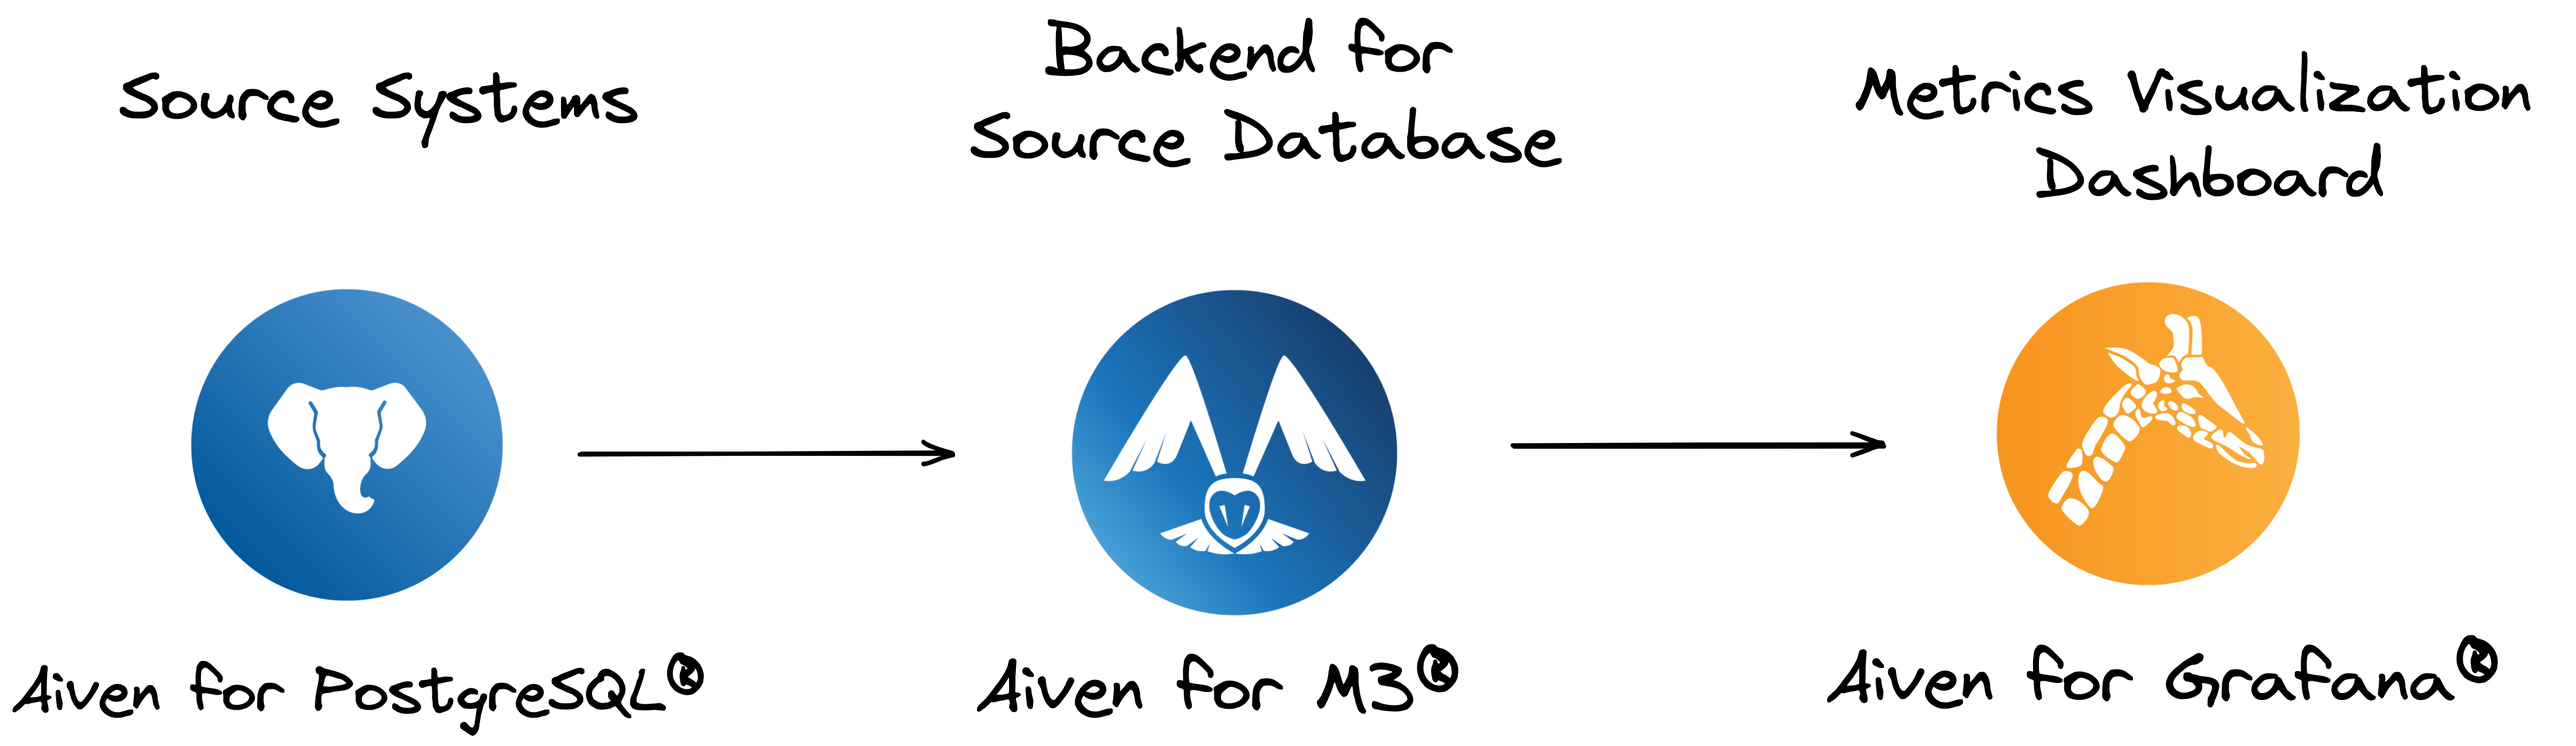
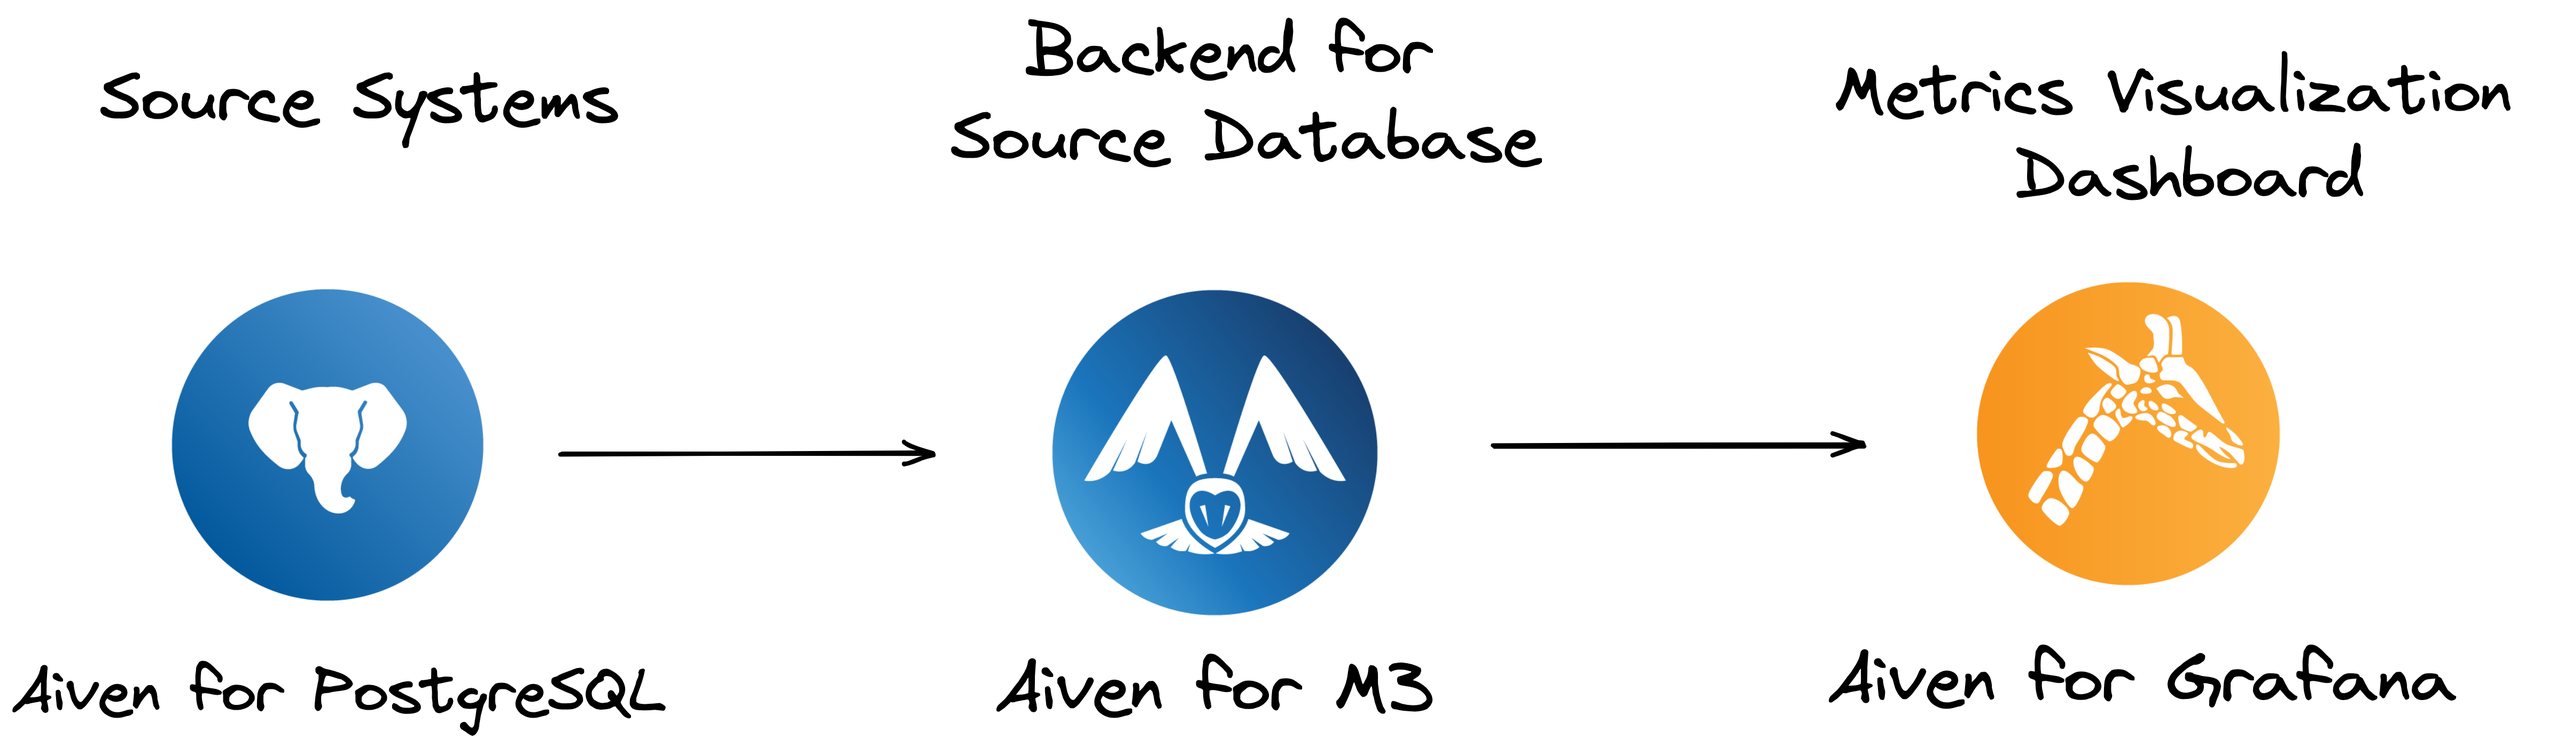
Changes based on Kevin's feedback.

diff --git a/content/5_ModuleFive/52_CreateProdDataInfra.md b/content/5_ModuleFive/52_CreateProdDataInfra.md
@@ -31,27 +31,13 @@ plan_name       = "business-4"
 Let's add four resources to the existing blueprint from the development environment: an Apache Kafka service and three Apache Kafka topics.
 
 ```
-# Kafka service
-
 resource "aiven_kafka" "kafka-service" {
   project                 = var.project_name
   cloud_name              = "aws-us-east-1"
   plan                    = var.plan_name
   service_name            = "kafka-aws-us"
-  maintenance_window_dow  = "monday"
-  maintenance_window_time = "10:00:00"
-  kafka_user_config {
-    kafka_connect = true
-    kafka_rest    = true
-    kafka_version = "3.2"
-    kafka {
-      group_max_session_timeout_ms = 70000
-      log_retention_bytes          = 1000000000
-    }
-  }
 }
 
-# Kafka topic A
 resource "aiven_kafka_topic" "kafka-topic-a" {
   project      = var.project_name
   service_name = aiven_kafka.kafka-service.service_name
@@ -60,7 +46,6 @@ resource "aiven_kafka_topic" "kafka-topic-a" {
   replication  = 2
 }
 
-# Kafka topic B
 resource "aiven_kafka_topic" "kafka-topic-b" {
   project      = var.project_name
   service_name = aiven_kafka.kafka-service.service_name
@@ -69,7 +54,6 @@ resource "aiven_kafka_topic" "kafka-topic-b" {
   replication  = 2
 }
 
-# Kafka topic C
 resource "aiven_kafka_topic" "kafka-topic-c" {
   project      = var.project_name
   service_name = aiven_kafka.kafka-service.service_name
@@ -83,25 +67,19 @@ The final Terraform **services.tf** file will look something like this:
 
 
 ```
-// This creates the PostgreSQL service
-
 resource "aiven_pg" "postgres_service" {
   project                 = var.project_name
   service_name            = "postgres-aws-us"
   cloud_name              = "aws-us-east-1"
   plan                    = var.plan_name
-  maintenance_window_dow  = "saturday"
-  maintenance_window_time = "10:00:00"
 }
 
-// This creates the relational PostgreSQL database
 resource "aiven_pg_database" "relational_database" {
   project       = var.project_name
   service_name  = aiven_pg.postgres_service.service_name
   database_name = "relational_database"
 }
 
-// This creates the PostgreSQL admin user
 resource "aiven_pg_user" "postgres_admin_user" {
   service_name = aiven_pg.postgres_service.service_name
   project      = var.project_name
@@ -109,18 +87,13 @@ resource "aiven_pg_user" "postgres_admin_user" {
   password     = var.db_password
 }
 
-// This creates the ClickHouse service
 resource "aiven_clickhouse" "clickhouse_service" {
   project                 = var.project_name
   service_name            = "clickhouse-aws-us"
   cloud_name              = "aws-us-east-1"
-  plan                    = "business-beta-8" // special plan name for beta service
-  maintenance_window_dow  = "saturday"
-  maintenance_window_time = "10:00:00"
+  plan                    = "business-8"
 }
 
-
-// ClickHouse service integration for the PostgreSQL service as a source
 resource "aiven_service_integration" "clickhouse_postgres_source" {
   project                  = var.project_name
   integration_type         = "clickhouse_postgresql"
@@ -134,25 +107,13 @@ resource "aiven_service_integration" "clickhouse_postgres_source" {
   }
 }
 
-// This creates the Redis service
 resource "aiven_redis" "redis_service" {
   project                 = var.project_name
   cloud_name              = "aws-us-east-1"
   plan                    = var.plan_name
   service_name            = "redis-aws-us"
-  maintenance_window_dow  = "saturday"
-  maintenance_window_time = "10:00:00"
-
-  redis_user_config {
-    redis_maxmemory_policy = "allkeys-random"
-
-    public_access {
-      redis = true
-    }
-  }
 }
 
-// This creates the Redis admin user
 resource "aiven_redis_user" "redis_admin_user" {
   service_name = aiven_redis.redis_service.service_name
   project      = var.project_name
@@ -160,27 +121,13 @@ resource "aiven_redis_user" "redis_admin_user" {
   password     = var.db_password
 }
 
-# Kafka service
-
 resource "aiven_kafka" "kafka-service" {
   project                 = var.project_name
   cloud_name              = "aws-us-east-1"
   plan                    = var.plan_name
   service_name            = "kafka-aws-us"
-  maintenance_window_dow  = "monday"
-  maintenance_window_time = "10:00:00"
-  kafka_user_config {
-    kafka_connect = true
-    kafka_rest    = true
-    kafka_version = "3.2"
-    kafka {
-      group_max_session_timeout_ms = 70000
-      log_retention_bytes          = 1000000000
-    }
-  }
 }
 
-# Kafka topic A
 resource "aiven_kafka_topic" "kafka-topic-a" {
   project      = var.project_name
   service_name = aiven_kafka.kafka-service.service_name
@@ -189,7 +136,6 @@ resource "aiven_kafka_topic" "kafka-topic-a" {
   replication  = 2
 }
 
-# Kafka topic B
 resource "aiven_kafka_topic" "kafka-topic-b" {
   project      = var.project_name
   service_name = aiven_kafka.kafka-service.service_name
@@ -198,7 +144,6 @@ resource "aiven_kafka_topic" "kafka-topic-b" {
   replication  = 2
 }
 
-# Kafka topic C
 resource "aiven_kafka_topic" "kafka-topic-c" {
   project      = var.project_name
   service_name = aiven_kafka.kafka-service.service_name

diff --git a/content/2_ModuleTwo/23_CreateMultipleAivenServices.md b/content/2_ModuleTwo/23_CreateMultipleAivenServices.md
@@ -6,7 +6,7 @@ weight: 3
 
 # Create Multiple Aiven Services 
 
-In the previous section, you created one Aiven service. In this section, let's create an Aiven for PosgreSQL® service, an Aiven for M3 service, an Aiven for Grafana® service, and the related service integrations. Service integration is an Aiven specific concept that works as a glue to connect two Aiven services together. 
+In the previous section, you created one Aiven service. In this section, let's create an Aiven for PosgreSQL service, an Aiven for M3 service, an Aiven for Grafana service, and the related service integrations. Service integration is an Aiven specific concept that works as a glue to connect two Aiven services together. 
 
 ![Multiple Aiven services together](/images/multiple-aiven-services.png)
 
@@ -14,7 +14,7 @@ In the above diagram, the PostgreSQL service metrics are pushed to M3DB which is
 
 Steps to create all the services and service integrations:
 
-1. From the [Aiven console](https://console.aiven.io/), click on **Create service** and start by creating an Aiven for PosgreSQL® service. Choose **PosgreSQL®** as the service, **AWS** as the cloud provider, **North America - aws-us-east-1** as the cloud region, **Startup-8** as the serice plan, default value for the **Additional Storage**, and a meaningful service name. Click on **Create service** and wait for the service to be up and running. 
+1. From the [Aiven console](https://console.aiven.io/), click on **Create service** and start by creating an Aiven for PosgreSQL service. Choose **PosgreSQL** as the service, **AWS** as the cloud provider, **North America - aws-us-east-1** as the cloud region, **Startup-8** as the serice plan, default value for the **Additional Storage**, and a meaningful service name. Click on **Create service** and wait for the service to be up and running. 
 2. Similarly, create Aiven for M3 and Aiven for Grafana services. Wait till all three services are up and running.
 3. The first service integration will connect the PostgreSQL service to the M3DB service. This is so that we can store the PostgreSQL service metrics to a time-series database like M3DB. Click on the Aiven for PostgreSQL service and then click **Set up integration**.
 ![Set up integration](/images/set-up-integration.png)

diff --git a/content/3_ModuleThree/33_CreateMultipleServices.md b/content/3_ModuleThree/33_CreateMultipleServices.md
@@ -79,51 +79,27 @@ The contents of the **services.tf** file should look like this:
 
     resource "aiven_pg" "demo-pg" {
       project                 = var.project_name
-      cloud_name              = "google-northamerica-northeast1"
+      cloud_name              = "aws-us-east-1"
       plan                    = "startup-8"
       service_name            = join("-", [var.service_name_prefix, "postgres"])
-      termination_protection  = false
-      maintenance_window_dow  = "sunday"
-      maintenance_window_time = "10:00:00"
     }
 
     # M3DB Service
 
     resource "aiven_m3db" "demo-m3db" {
       project                 = var.project_name
-      cloud_name              = "google-northamerica-northeast1"
+      cloud_name              = "aws-us-east-1"
       plan                    = "startup-8"
       service_name            = join("-", [var.service_name_prefix, "m3db"])
-      maintenance_window_dow  = "sunday"
-      maintenance_window_time = "10:00:00"
-
-      m3db_user_config {
-        m3db_version = 1.1
-
-        namespaces {
-          name = "my_ns1"
-          type = "unaggregated"
-        }
-      }
     }
 
     # Grafana Service
 
     resource "aiven_grafana" "demo-grafana" {
       project                 = var.project_name
-      cloud_name              = "google-northamerica-northeast1"
+      cloud_name              = "aws-us-east-1"
       plan                    = "startup-8"
       service_name            = join("-", [var.service_name_prefix, "grafana"])
-      maintenance_window_dow  = "sunday"
-      maintenance_window_time = "10:00:00"
-
-      grafana_user_config {
-        alerting_enabled = true
-
-        public_access {
-          grafana = true
-        }
-      }
     }
 
     # PostgreSQL-M3DB Metrics Service Integration

diff --git a/content/1_ModuleOne/11_Foreword.md b/content/1_ModuleOne/11_Foreword.md
@@ -8,7 +8,7 @@ weight: 1
 
 What do we mean by data infrastructure? Data infrastructure includes all of your services to store, transmit, and monitor the data. This can include a relational database like PostgreSQL®, a key-value store like Redis®* or Apache Cassandra®, data streaming service like Apache Kafka®, or a visualization service like Grafana®. 
 
-Most engineering teams have disparate services running for their data services which make provisioning, configuring, and monitoring incredibly difficuly. With Aiven platform, you can deploy Apache Kafka®, Apache Cassandra®, PostgreSQL®, Apache Flink® beta, ClickHouse® (beta), OpenSearch®, MySQL, Redis®*, InfluxDB®, Grafana®, and M3 - all available in more than 23 AWS regions around the world and manageable from one single Aiven platform.
+Most engineering teams have disparate services running for their data services which make provisioning, configuring, and monitoring incredibly difficuly. With Aiven platform, you can deploy Aiven for Apache Kafka®, Aiven for Apache Cassandra®, Aiven for PostgreSQL®, Aiven for Apache Flink®, Aiven for ClickHouse®, Aiven for OpenSearch®, Aiven for MySQL, Aiven for Redis®*, Aiven for InfluxDB®, Aiven for Grafana®, and Aiven for M3 - all available in more than 23 AWS regions around the world and manageable from one single Aiven platform.
 
 However, it's difficult to scale when you create services from a web console or via custom scripts. That's why, Terraform Provider for Aiven will help you build, configure, and tear down your infrastructure declaratively. Terraform is HashiCorp’s open source infrastructure as code tool that lets you define resources and infrastructure in human-readable files and manages your infrastructure’s lifecycle.
 

diff --git a/content/4_ModuleFour/41_IntroDevEnvDataInfra.md b/content/4_ModuleFour/41_IntroDevEnvDataInfra.md
@@ -8,11 +8,11 @@ weight: 1
 
 In this section, you will get an overview of the development environment you'll create consisting of the following three services:
 
-- Aiven for PostgreSQL® service for your relational data
-- Aiven for Redis®* for your non-relational or NoSQL data
-- Aiven for ClickHouse® for your analytical data
+- Aiven for PostgreSQL service for your relational data
+- Aiven for Redis for your non-relational or NoSQL data
+- Aiven for ClickHouse for your analytical data
 
-Besides creating the services, you'll also create a database and a database admin user for the Aiven for PostgreSQL® service, a service inegration to the Aiven for ClickHouse® service so that the database from the PostgreSQL service is copied over to ClickHouse for analytical processing. Service integration is an Aiven concept that allows you to connect two Aiven services to exchange data without you having to glue them together with your own code. Finally, you'll create an admin user for the Redis service. The whole setup will look something like this:
+Besides creating the services, you'll also create a database and a database admin user for the Aiven for PostgreSQL service, a service inegration to the Aiven for ClickHouse service so that the database from the PostgreSQL service is copied over to ClickHouse for analytical processing. Service integration is an Aiven concept that allows you to connect two Aiven services to exchange data without you having to glue them together with your own code. Finally, you'll create an admin user for the Redis service. The whole setup will look something like this:
 
 ![Dev Environment Data Infrastructure](/images/dev-env-data-infra.png)
 

diff --git a/content/2_ModuleTwo/22_CreateFirstAivenService.md b/content/2_ModuleTwo/22_CreateFirstAivenService.md
@@ -8,10 +8,10 @@ weight: 2
 
 When you create an Aiven service using the Aiven CLI, Aiven Operator or Terraform Provider for Aiven, you have to provide an authentication token - a credential that allows a user to programmatically access resources instead of using their username and password. However, when you create the service from Aiven console, you are already authenticated and don't have to provide an authentication token.
 
-Let's create an Aiven for Redis®* service by following these steps:
+Let's create an Aiven for Redis service by following these steps:
 
 1. Click on **Create service**.
-2. Select **Redis™*** from the list of services, choose **AWS** from the list of cloud providers, and select a cloud region that might be closer to you.
+2. Select **Redis** from the list of services, choose **AWS** from the list of cloud providers, and select a cloud region that might be closer to you.
 3. Under "Select Service Plan" you can choose a plan based on your compute, storage, and backup needs. For this workshop, let's choose **Startup-8** plan.
 4. Give your service a name and then review the **Service Summary** shown on the right hand side.
 5. If you're satisfied, hit **Create service** and this will start the process of service creation.

diff --git a/content/3_ModuleThree/32_CreateRedisService.md b/content/3_ModuleThree/32_CreateRedisService.md
@@ -1,10 +1,10 @@
 ---
-title: "Create Aiven for Redis™* using Terraform"
+title: "Create Aiven for Redis using Terraform"
 chapter: true
 weight: 2
 ---
 
-# Create an Aiven for Redis™* service using Terraform
+# Create an Aiven for Redis service using Terraform
 
 Your Terraform files declare the structure of your infrastructure as well as required dependencies and configuration. While you can stuff these together in one file, it's ideal to keep those as separate files. 
 
@@ -70,19 +70,9 @@ The contents of the **redis.tf** file should look like this:
     
     resource "aiven_redis" "single-node-aiven-redis" {
       project                 = var.project_name
-      cloud_name              = "google-northamerica-northeast1"
+      cloud_name              = "aws-us-east-1"
       plan                    = "startup-4"
-      service_name            = "gcp-single-node-redis1"
-      maintenance_window_dow  = "monday"
-      maintenance_window_time = "10:00:00"
-    
-      redis_user_config {
-        redis_maxmemory_policy = "allkeys-random"
-    
-        public_access {
-          redis = true
-        }
-      }
+      service_name            = "aws-us-redis"
     }
 ```   
     

diff --git a/content/4_ModuleFour/42_BuildDevEnvDataInfra.md b/content/4_ModuleFour/42_BuildDevEnvDataInfra.md
@@ -75,8 +75,6 @@ resource "aiven_pg" "postgres_service" {
   service_name            = "postgres-aws-us"
   cloud_name              = "aws-us-east-1"
   plan                    = "startup-4"
-  maintenance_window_dow  = "saturday"
-  maintenance_window_time = "10:00:00"
 }
 
 // This creates the relational PostgreSQL database
@@ -99,9 +97,7 @@ resource "aiven_clickhouse" "clickhouse_service" {
   project                 = var.project_name
   service_name            = "clickhouse-aws-us"
   cloud_name              = "aws-us-east-1"
-  plan                    = "startup-beta-8" // special plan name for beta service
-  maintenance_window_dow  = "saturday"
-  maintenance_window_time = "10:00:00"
+  plan                    = "startup-8" 
 }
 
 
@@ -125,16 +121,6 @@ resource "aiven_redis" "redis_service" {
   cloud_name              = "aws-us-east-1"
   plan                    = "startup-4"
   service_name            = "redis-aws-us"
-  maintenance_window_dow  = "saturday"
-  maintenance_window_time = "10:00:00"
-
-  redis_user_config {
-    redis_maxmemory_policy = "allkeys-random"
-
-    public_access {
-      redis = true
-    }
-  }
 }
 
 // This creates the Redis admin user

diff --git a/content/5_ModuleFive/53_WrapUp.md b/content/5_ModuleFive/53_WrapUp.md
@@ -6,4 +6,8 @@ weight: 3
 
 # Wrap up
 
-In this section, we will wrap up and summarize the learnings from this workshop.
+In this workshop, you learned about infrastructure as code in a hands-on way using the Aiven platform and Aiven Terraform Provider. You created multiple data services using the console and Terraform. Finally, you leveraged the power of Terraform variables and configurations to build repeatable development and production data infrastructure.
+
+If you haven't already, [sign up with Aiven](https://console.aiven.io/signup) to build and manage your data infrastructure based on open-source technologies. And don't forget to check out Aiven on AWS Marketplace:
+
+[![Aiven on AWS Marketplace](/images/aiven_on_aws_marketplace.png)](https://aws.amazon.com/marketplace/seller-profile?id=37261588-4513-4d54-9ef9-195534d74a1b)
